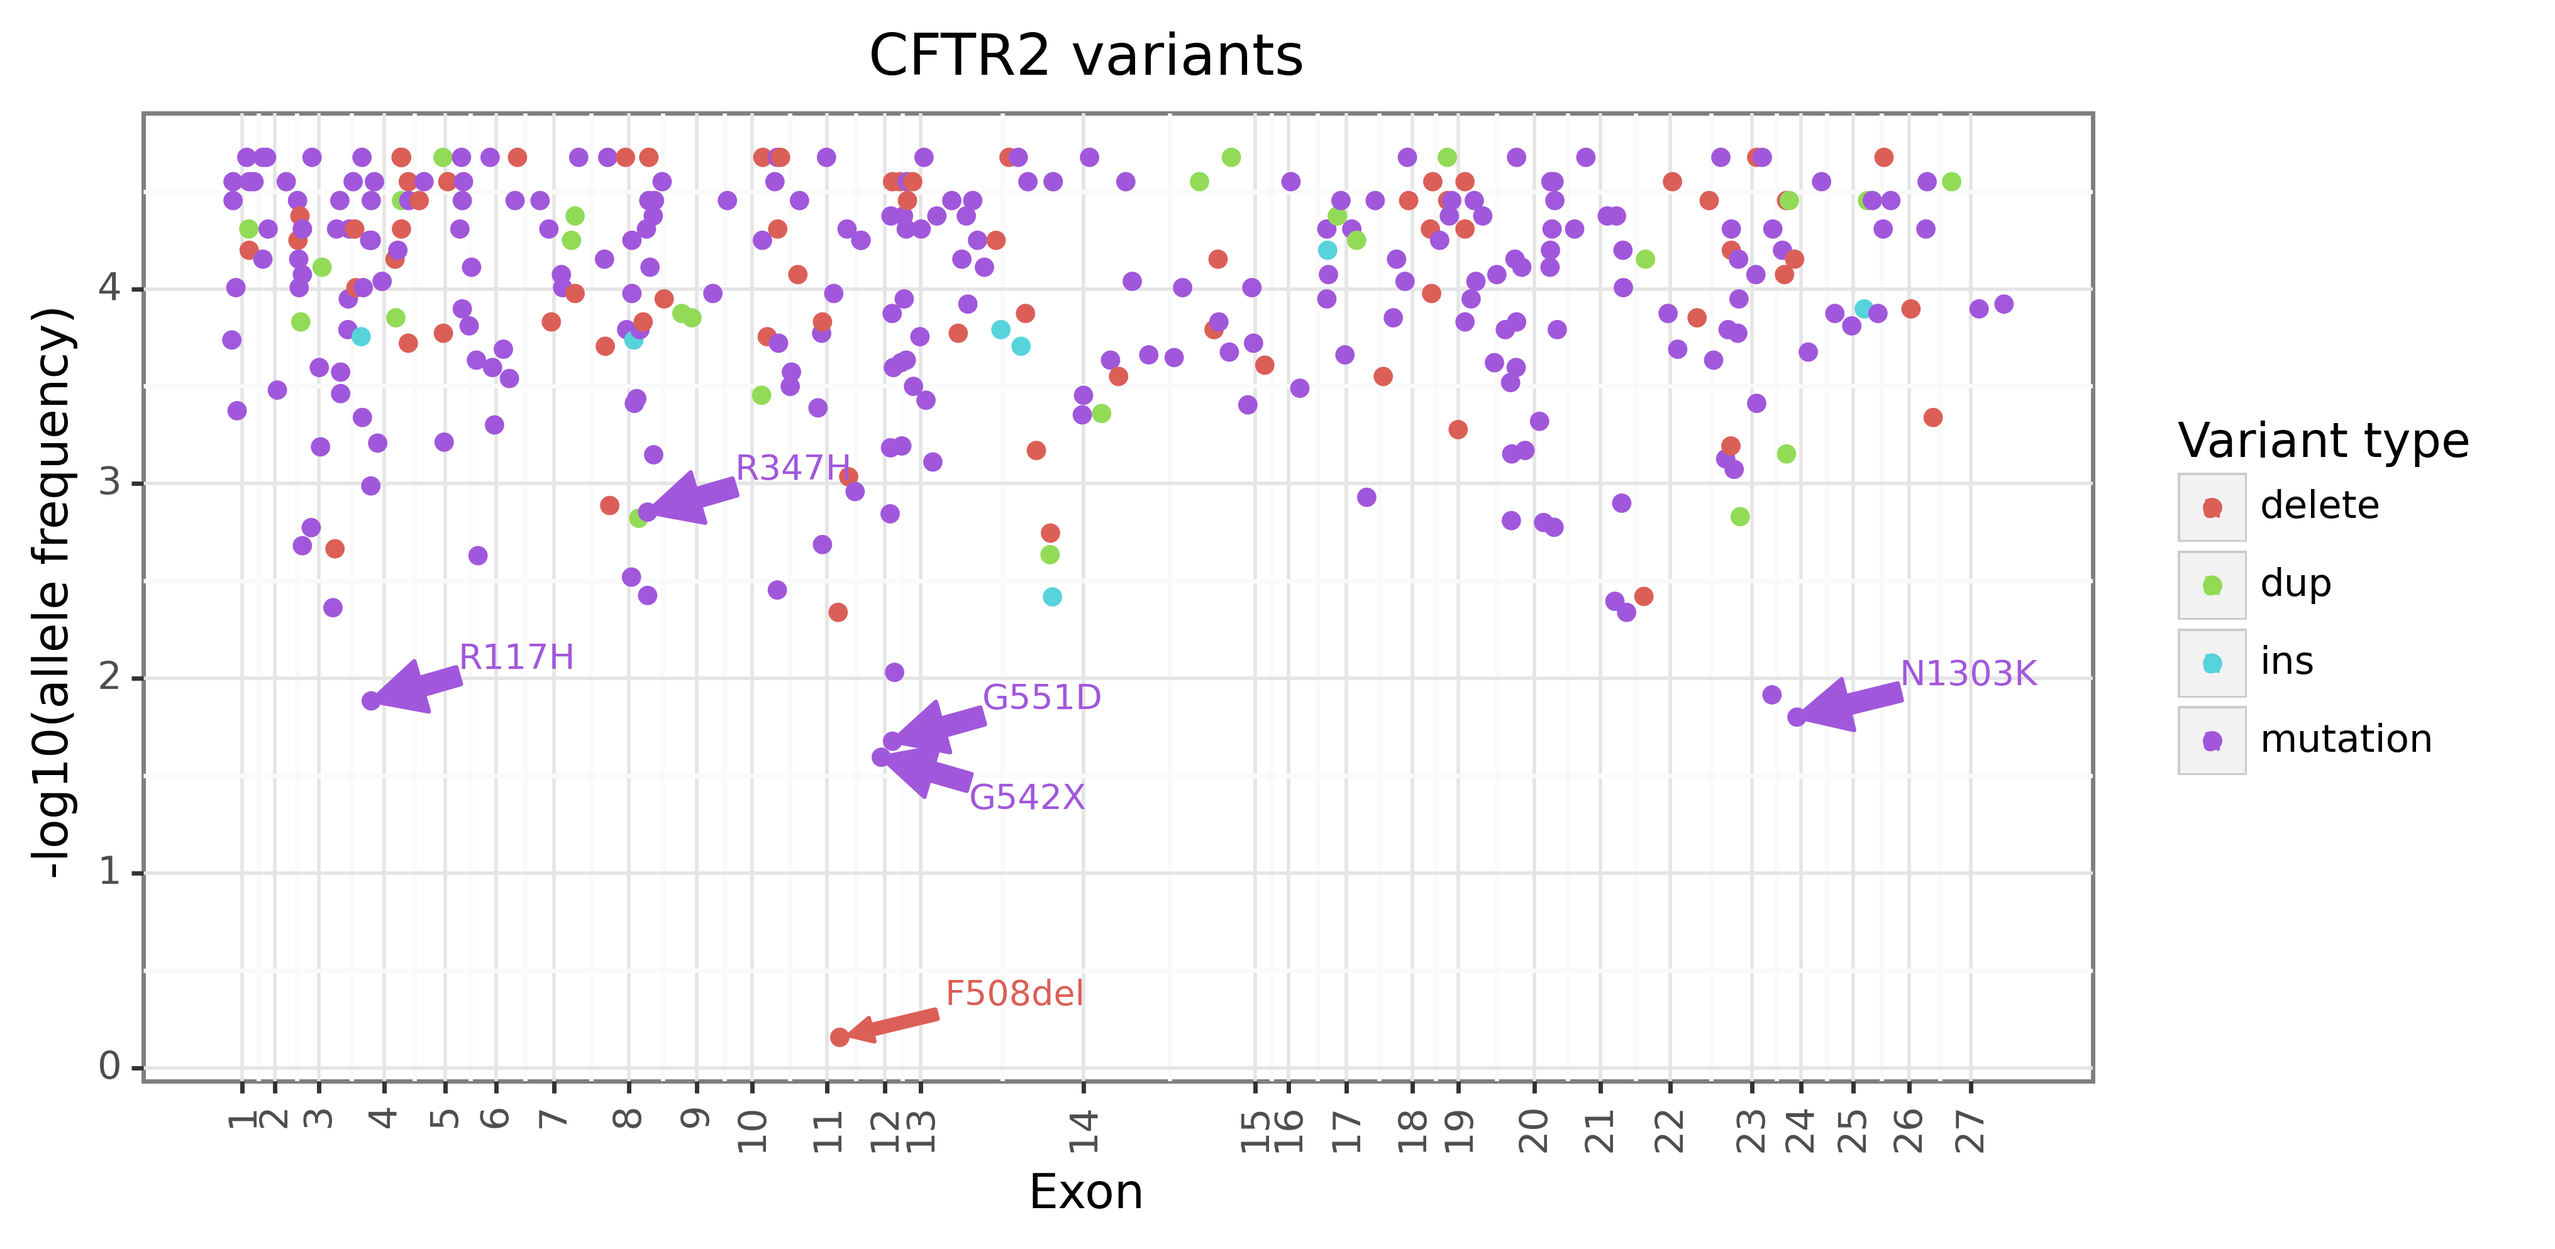
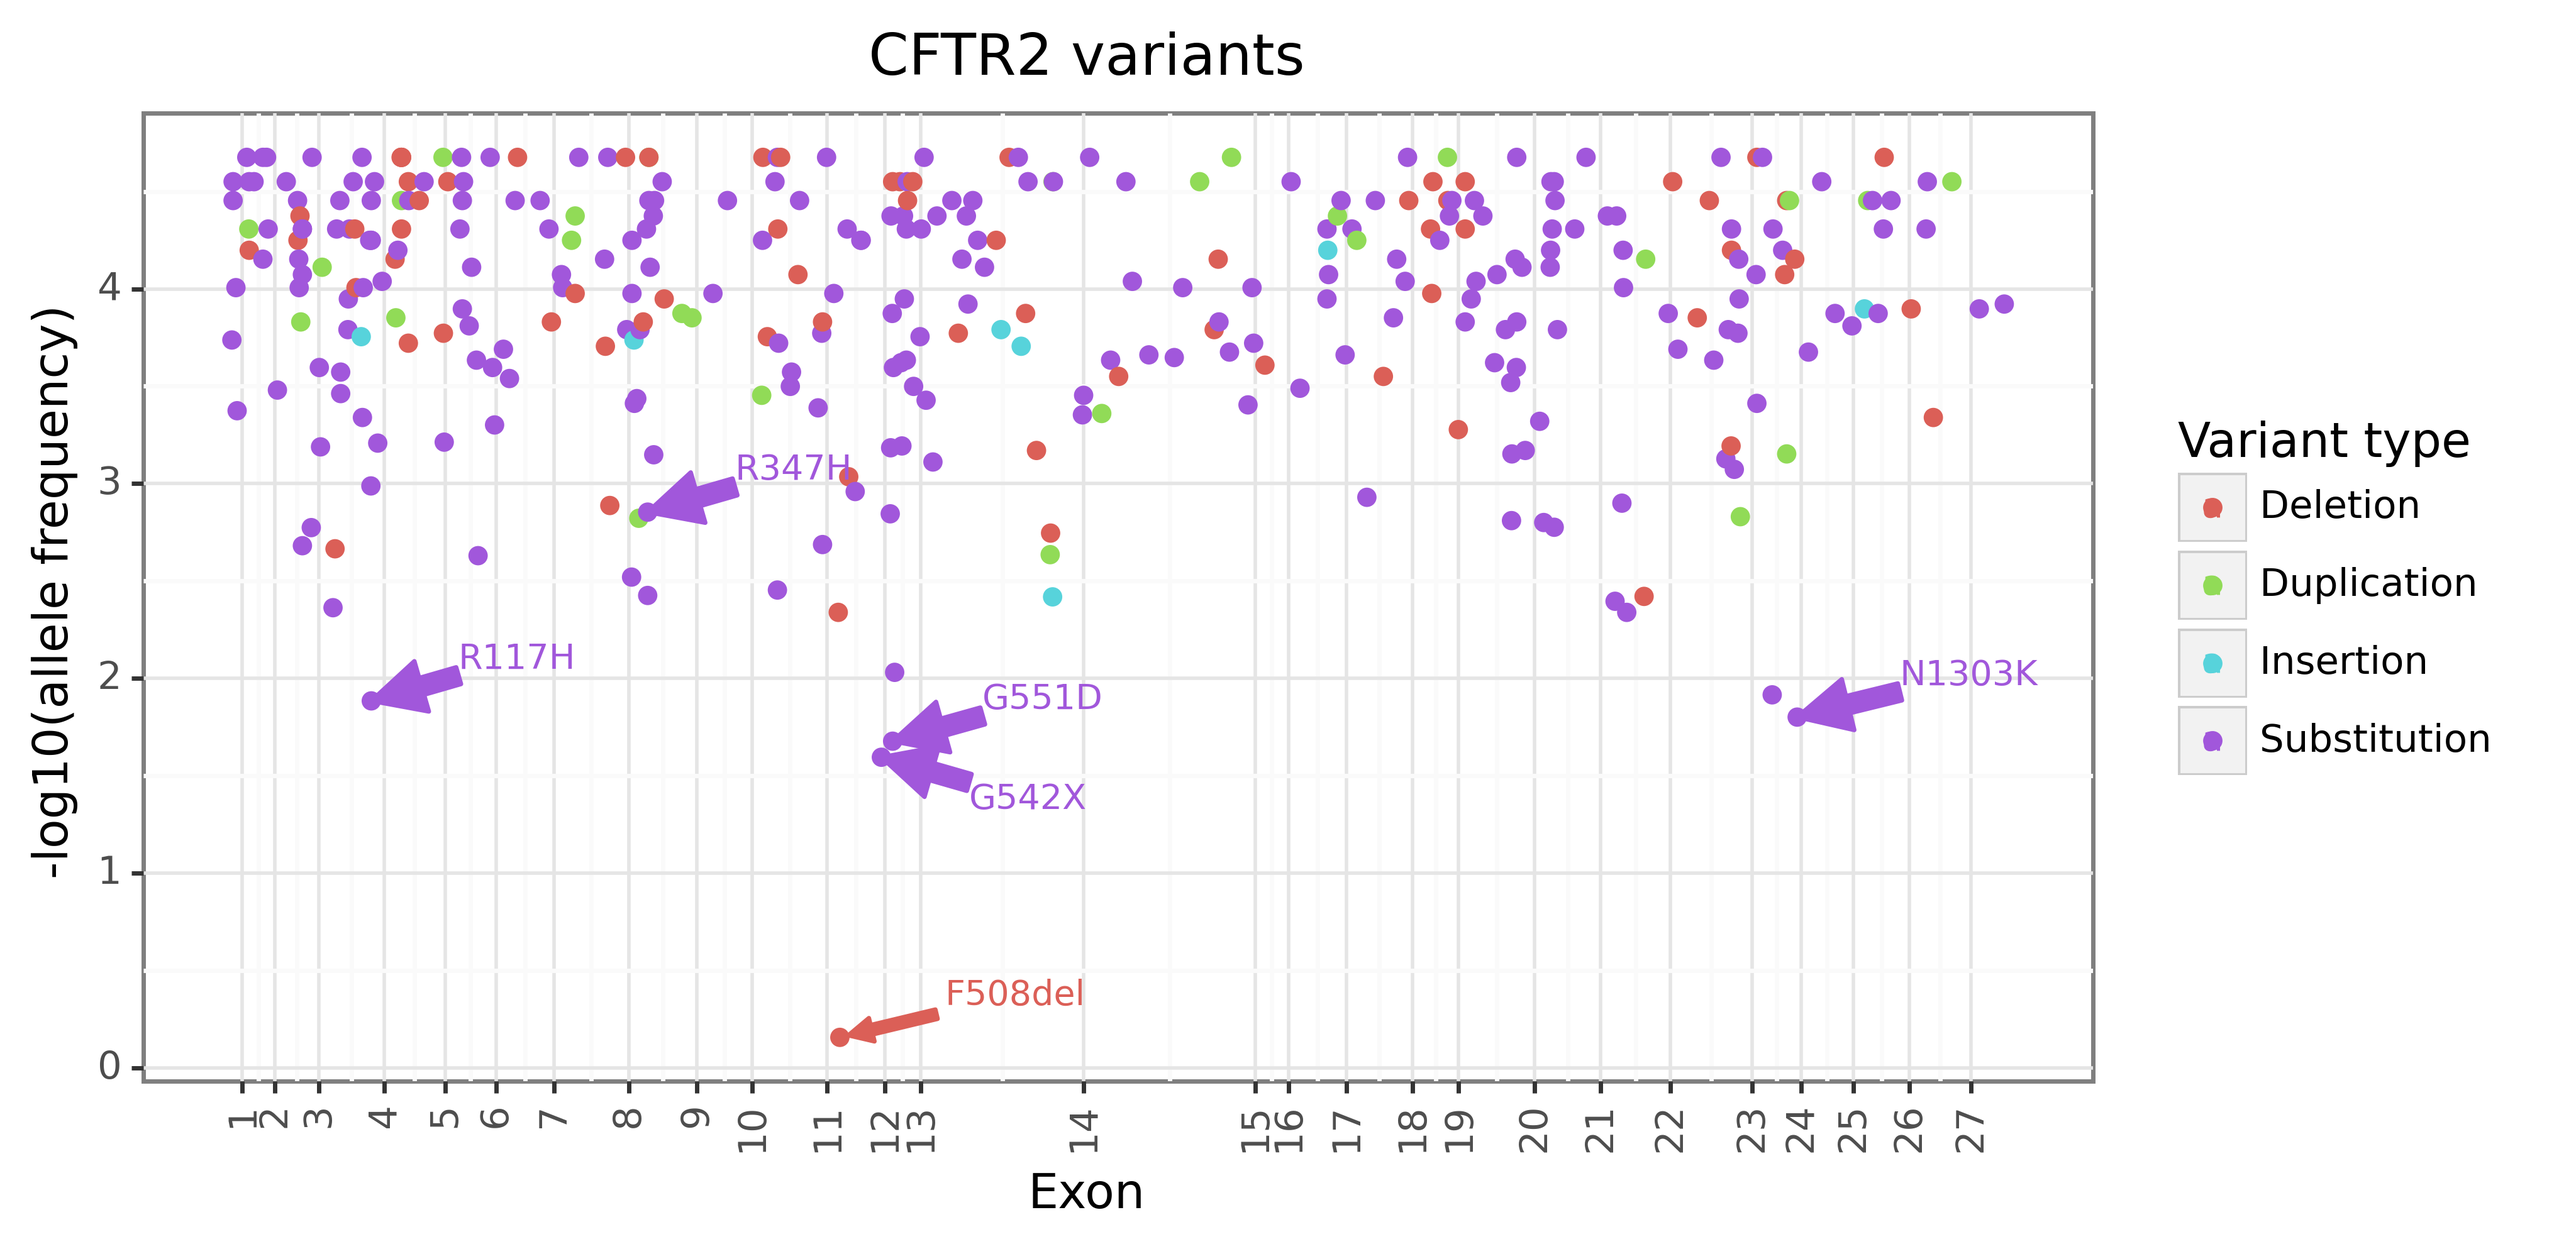
finished flowchart

diff --git a/9_summary_stats.py b/9_summary_stats.py
@@ -1,6 +1,7 @@
 """
-This script generates the figures that are used to explore the data and runtime performance.
+This script generates the figures that are used to explore the data and runtime performance. It also prints off key data statistics used for write-up.
 
+---Figures---
 1. runtime.png: Actual runtime of the esmfold.model from 5_esm_fold.py as a function of sequence length.
 2. exon_pos.png: Distribution of exonic mutations across the CFTR gene by mutation type.
 3. rho_f508.png: Correlation between the the different phenotype labels for F508del heterozygotes. 
@@ -84,7 +85,6 @@ dat_ncbi_loc = pd.read_csv(os.path.join(dir_data, 'ncbi_genome_loc.csv'), usecol
 cftr_gene = pd.read_csv(os.path.join(dir_data, 'cftr_exon_locs.csv'))
 dat_ncbi_loc['is_intron'] = ~dat_ncbi_loc['from'].isin(cftr_gene['idx'])
 print(f"There are {dat_ncbi_loc['is_intron'].sum()} intronic mutations")
-
 
 
 #####################################
@@ -227,7 +227,6 @@ df_cftr12['region'] = df_cftr12['region'].str.split('\\s').str[0].fillna('missin
 print(df_cftr12.groupby(['cftr2','region']).size())
 
 
-
 ############################
 # --- (3) PROCESS DATA --- #
 
@@ -346,9 +345,10 @@ gg_runtime.save(os.path.join(dir_figures,'runtime.png'), width=6, height=4, dpi=
 tmp_xaxis = rel_exonic.assign(center=lambda x: (x['stop']+x['start'])/2)
 selected_mutations = mutation_locs.sort_values('allele_freq').tail(5)['mutation'].to_list() + ['R347H']
 selected_mutations = mutation_locs[mutation_locs['mutation'].isin(selected_mutations)]
+di_vartype = {'delete':'Deletion', 'mutation':'Substitution','ins':'Insertion','dup':'Duplication'}
 gg_exon_pos = (pn.ggplot(mutation_locs, pn.aes(x='x_pos', y='-np.log10(allele_freq)', color='vartype')) + 
             pn.theme_bw() + pn.geom_point() + 
-            pn.scale_color_discrete(name='Variant type') +
+            pn.scale_color_discrete(name='Variant type',labels=lambda x: [di_vartype[z] for z in x]) +
             pn.labs(x='Exon', y='-log10(allele frequency)') + 
             pn.ggtitle('CFTR2 variants') + 
             pn.geom_text(pn.aes(label='mutation'), data=selected_mutations, size=8, adjust_text={'expand_points':(2.5, 2.5),'arrowprops': {'arrowstyle': 'simple'}}) + 
